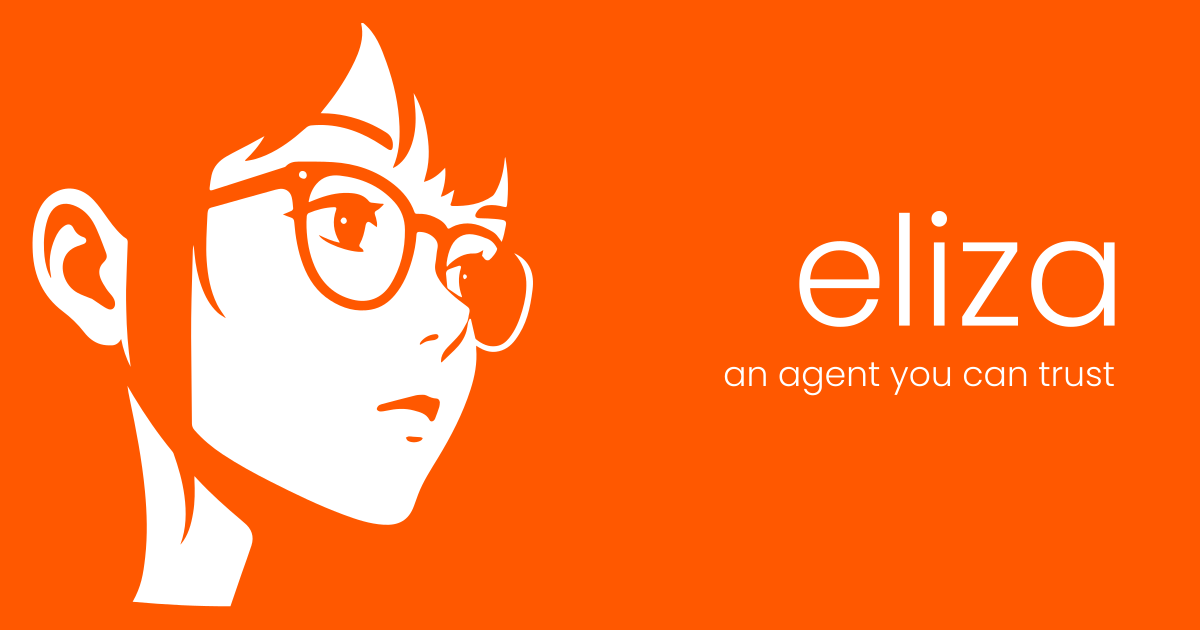
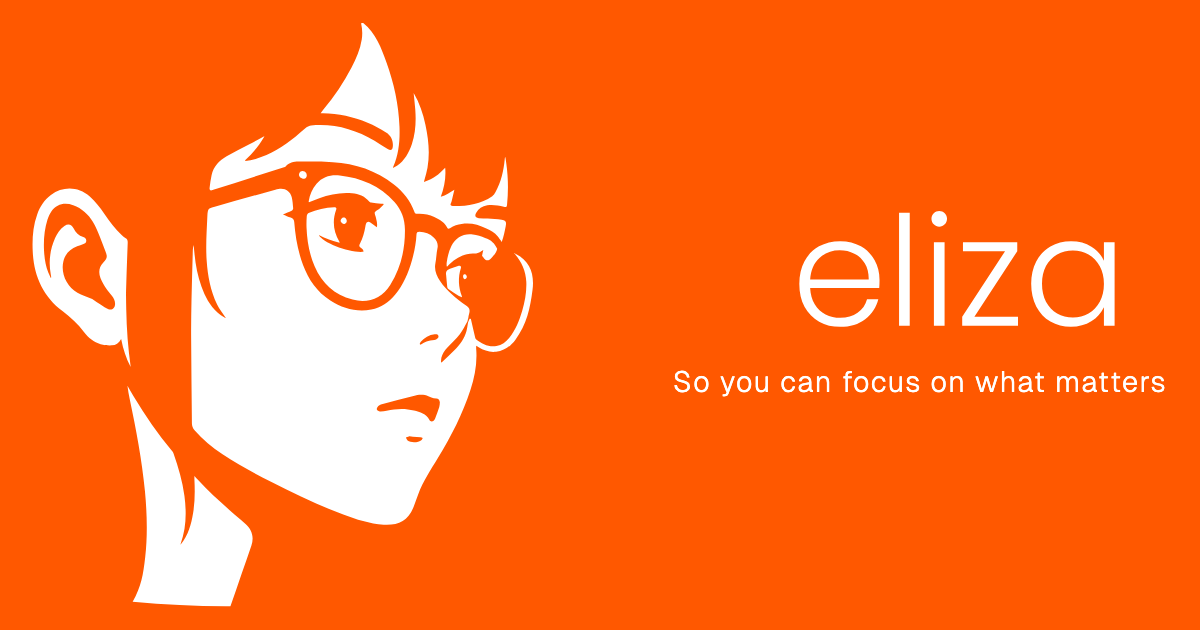
brand(homepage): new embed copy and OG tagline
Meta/OG/Twitter descriptions become 'Eliza manages your digital life so
you can focus on what matters.' (translated across locales), and the
OG embed tagline is regenerated from the SVG as 'So you can focus on
what matters' in Geist Light, replacing 'an agent you can trust'.

Changed region(s): [[0.555, 0.573, 0.9867, 0.6333]]

diff --git a/packages/homepage/index.html b/packages/homepage/index.html
@@ -20,14 +20,14 @@
     />
     <meta
       name="description"
-      content="Four hours of your time back every week. Eliza is your personal assistant — call or text her on iMessage, Telegram, Discord, or WhatsApp."
+      content="Eliza manages your digital life so you can focus on what matters."
     />
     <meta property="og:type" content="website" />
     <meta property="og:site_name" content="Eliza" />
     <meta property="og:title" content="Eliza" />
     <meta
       property="og:description"
-      content="Four hours of your time back every week. Eliza is your personal assistant — call or text her on iMessage, Telegram, Discord, or WhatsApp."
+      content="Eliza manages your digital life so you can focus on what matters."
     />
     <meta property="og:image" content="https://eliza.app/brand/ogembeds/eliza_ogembed.png" />
     <meta property="og:image:width" content="1200" />
@@ -38,7 +38,7 @@
     <meta name="twitter:title" content="Eliza" />
     <meta
       name="twitter:description"
-      content="Four hours of your time back every week. Eliza is your personal assistant — call or text her on iMessage, Telegram, Discord, or WhatsApp."
+      content="Eliza manages your digital life so you can focus on what matters."
     />
     <meta name="twitter:image" content="https://eliza.app/brand/ogembeds/eliza_ogembed.png" />
     <title>Eliza</title>

diff --git a/packages/homepage/src/components/DocumentMetaManager.tsx b/packages/homepage/src/components/DocumentMetaManager.tsx
@@ -16,13 +16,15 @@ export function DocumentMetaManager(): null {
       defaultValue: "Eliza",
     });
     const description = t("homepage_eliza.meta.description", {
-      defaultValue: "Create apps and agents by chatting with AI.",
+      defaultValue:
+        "Eliza manages your digital life so you can focus on what matters.",
     });
     const ogTitle = t("homepage_eliza.meta.ogTitle", {
       defaultValue: "Eliza",
     });
     const ogDescription = t("homepage_eliza.meta.ogDescription", {
-      defaultValue: "Create apps and agents by chatting with AI.",
+      defaultValue:
+        "Eliza manages your digital life so you can focus on what matters.",
     });
     const ogImageAlt = t("homepage_eliza.meta.ogImageAlt", {
       defaultValue: "Eliza",
